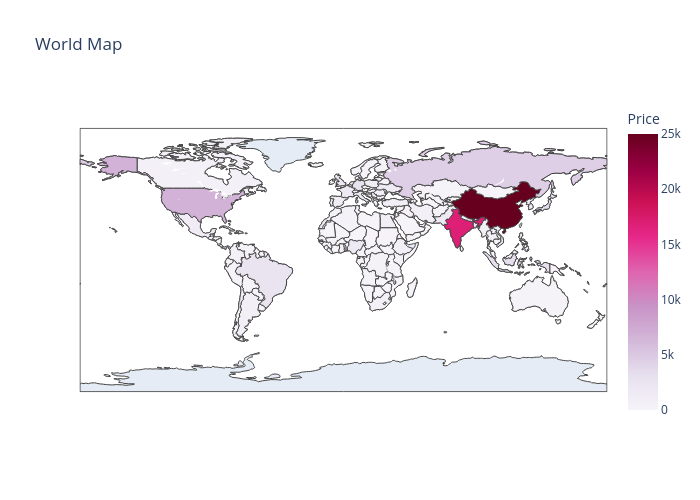
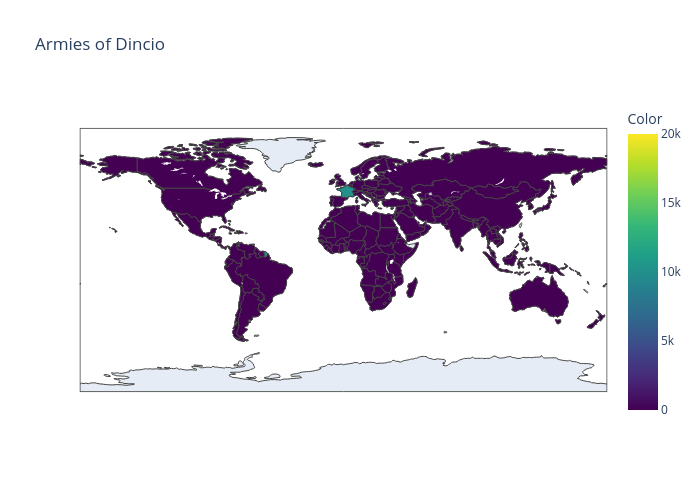
Implement army map

diff --git a/nation_game.py b/nation_game.py
@@ -108,18 +108,21 @@ def receive_ans(upd, ctx):
 def cancel_round(upd, ctx):
     return ConversationHandler.END
 
-def print_world_map():
+def print_world_map(get_color, title='World Map', max_color_range=25000):
     df = pd.DataFrame.from_dict(
         db('world')
     )
 
+    df['Color'] = df.apply(get_color, axis=1)
+
     fig = px.choropleth(
         df,
         locations='Country Code',
-        color='Price',
+        color='Color',
         hover_name='Country Name',
-        title='World Map',
-        color_continuous_scale=px.colors.sequential.PuRd
+        title=title,
+        color_continuous_scale='Viridis',
+        range_color=(0, max_color_range)
     )
 
     map_path = Path(__file__).parent / 'assets/cache/world-map.png'
@@ -128,7 +131,17 @@ def print_world_map():
     return map_path
 
 def show_world_map(upd, ctx):
-    map_path = print_world_map()
+    owner = ctx.args[0] if len(ctx.args) > 0 else 'Natives'
+    max_color_range = int(ctx.args[1]) if len(ctx.args) > 1 else 25000
+
+    map_path = print_world_map(
+        title=f'Armies of {owner}',
+        max_color_range=max_color_range,
+        get_color=lambda nation: next(filter(
+            lambda army: army['Owner'] == owner,
+            list(nation['Armies'])
+        ), {'Strength': 0})['Strength'],
+    )
 
     ctx.bot.send_photo(
         chat_id=upd.effective_chat.id,
@@ -212,7 +225,8 @@ def deploy_army(admin=False):
         army = army.value
 
         army['Strength'] += amount
-        players[owner]['points'] -= amount
+        if not admin:
+            players[owner]['points'] -= amount
 
         res = apply_offensive_opts(owner, nation_code, off_opts)
         if isinstance(res, Err):
@@ -297,6 +311,7 @@ def monitor_armies(upd, ctx):
     threads = monitor_armies.threads
 
     if nation_code == 'STOP':
+        upd.message.reply_text('Stopping monitor...')
         threads[username][1].store(1)
         threads[username][0].join()
         threads.pop(username)
@@ -317,6 +332,10 @@ def monitor_armies(upd, ctx):
 
             stop_flag = threads[username][1].load()
             if stop_flag == 1:
+                ctx.bot.send_message(
+                    chat_id=owner.id,
+                    text='Monitoring stopped'
+                )
                 break
 
             ctx.bot.send_message(
@@ -326,8 +345,6 @@ def monitor_armies(upd, ctx):
                     indent=4
                 )
             )
-
-            upd.message.reply_text()
 
     thread = threading.Thread(target=monitor)
     stop_flag = atomics.atomic(width=4, atype=atomics.INT)
@@ -344,7 +361,7 @@ def show_help(upd, ctx):
     upd.message.reply_text(
         '/help: Show this message\n'
         '/ng: Play a round of *Nation Game*\n'
-        '/map: Show the world map [WIP]\n'
+        '/map <PLAYER> <RESOLUTION>: Show the world map with PLAYER army size\n'
         '/dep NATION_CODE SOLDIERS_AMOUNT [ENEMIES]: Deploy soldiers\n'
         '/att NATION_CODE [ENEMIES]: Start offernsive\n'
         '/nati NATION_CODE: Get info on nation\n'
